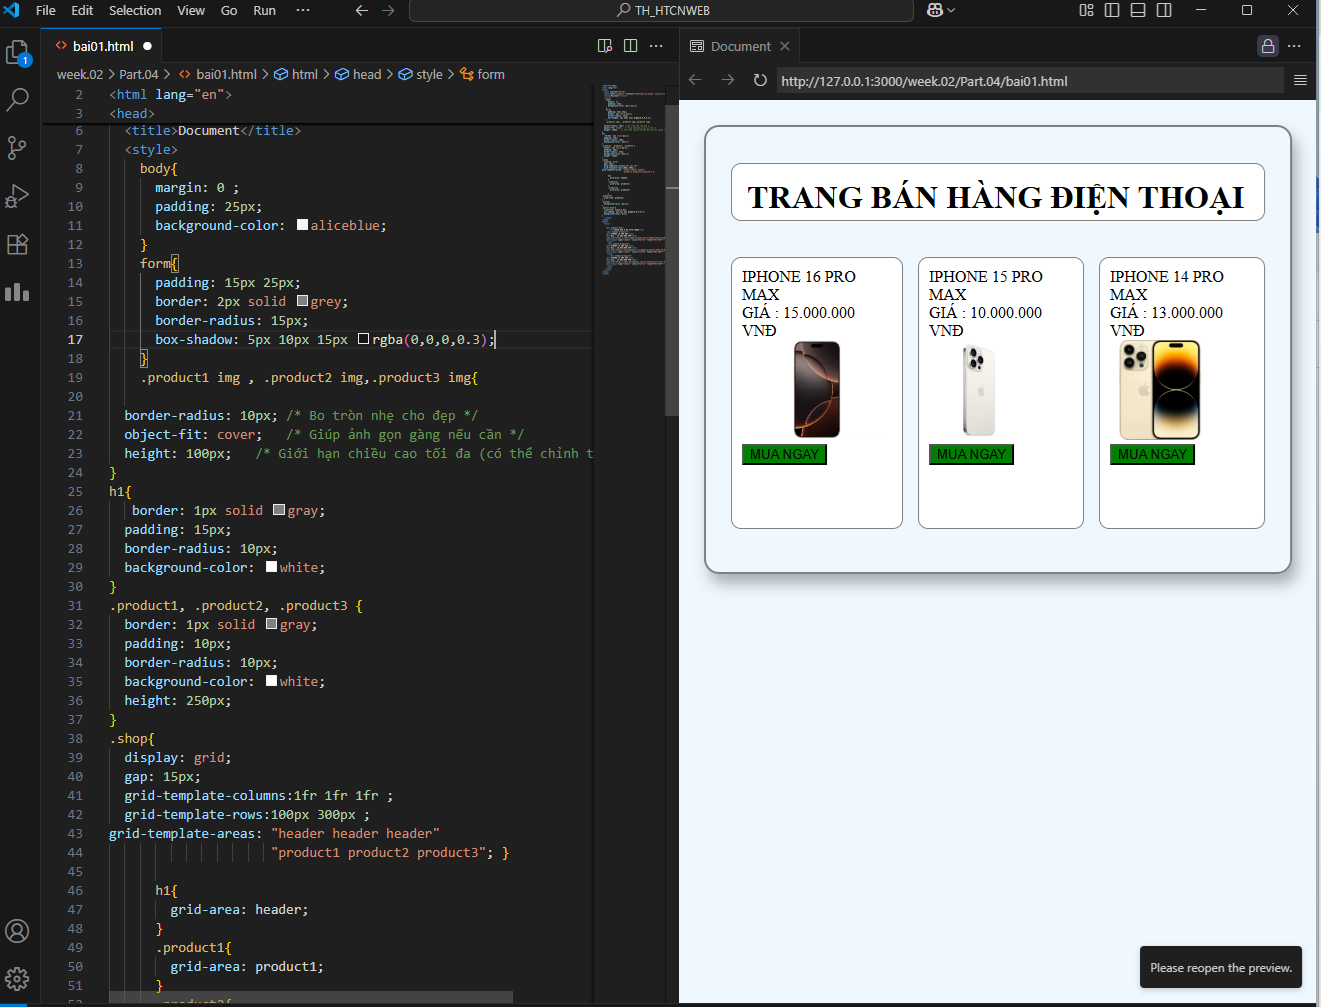
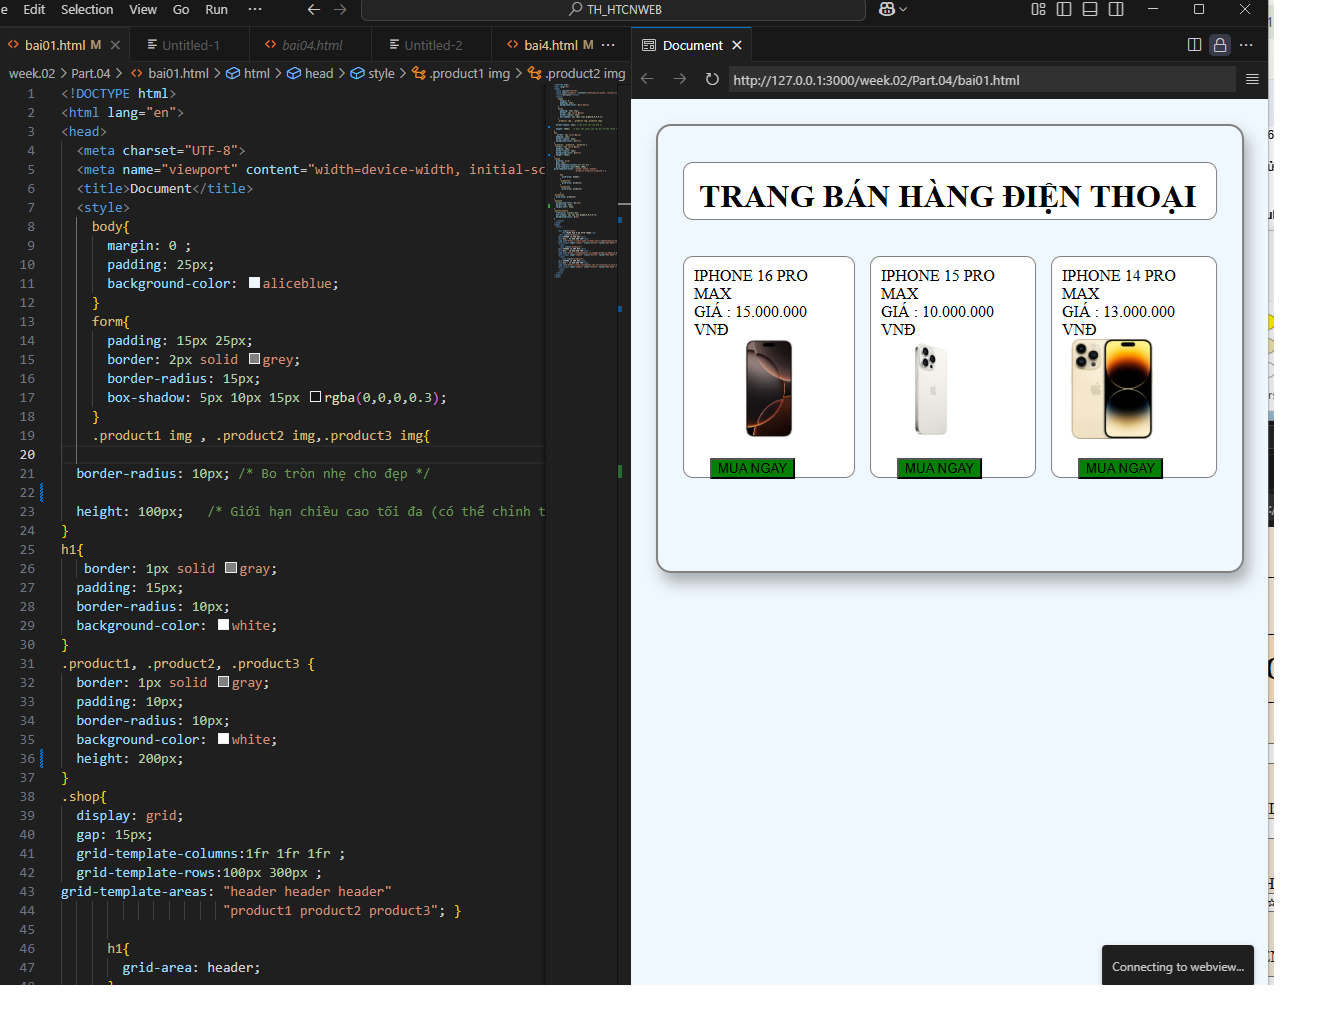
.

diff --git a/week.02/Part.04/bai01.html b/week.02/Part.04/bai01.html
@@ -19,7 +19,7 @@
     .product1 img , .product2 img,.product3 img{
  
   border-radius: 10px; /* Bo tròn nhẹ cho đẹp */
-  object-fit: cover;   /* Giúp ảnh gọn gàng nếu cần */
+
   height: 100px;   /* Giới hạn chiều cao tối đa (có thể chỉnh tùy ý) */
 }
 h1{
@@ -33,7 +33,7 @@ h1{
   padding: 10px;
   border-radius: 10px;
   background-color: white;
-  height: 250px;
+  height: 200px;
 }
 .shop{
   display: grid;
@@ -58,6 +58,8 @@ grid-template-areas: "header header header"
 }
 .button{
   background-color: green;
+  margin-top: 15px; 
+  margin-left: 16px;
 }
 .button:hover{
   transform: scale(1.05);
